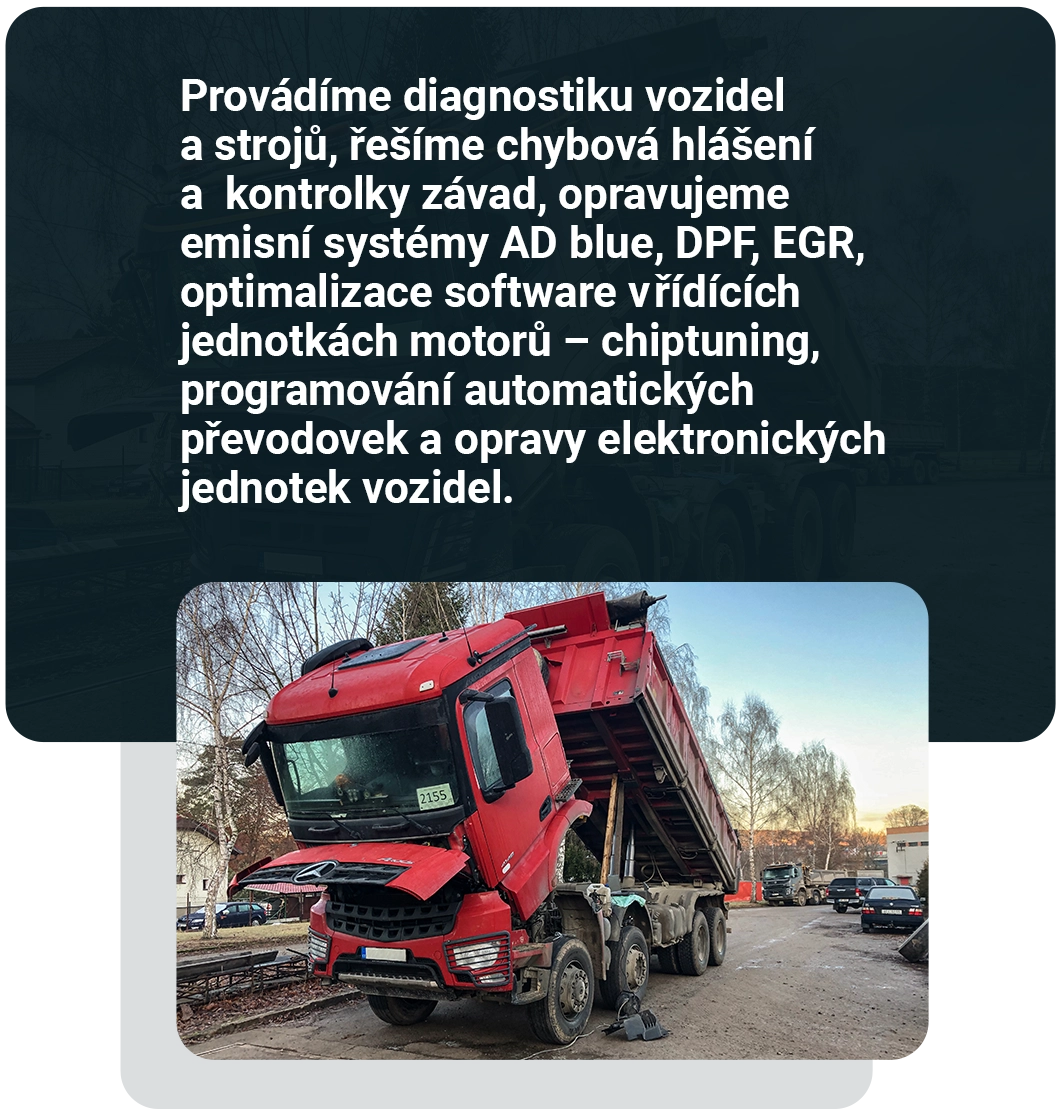
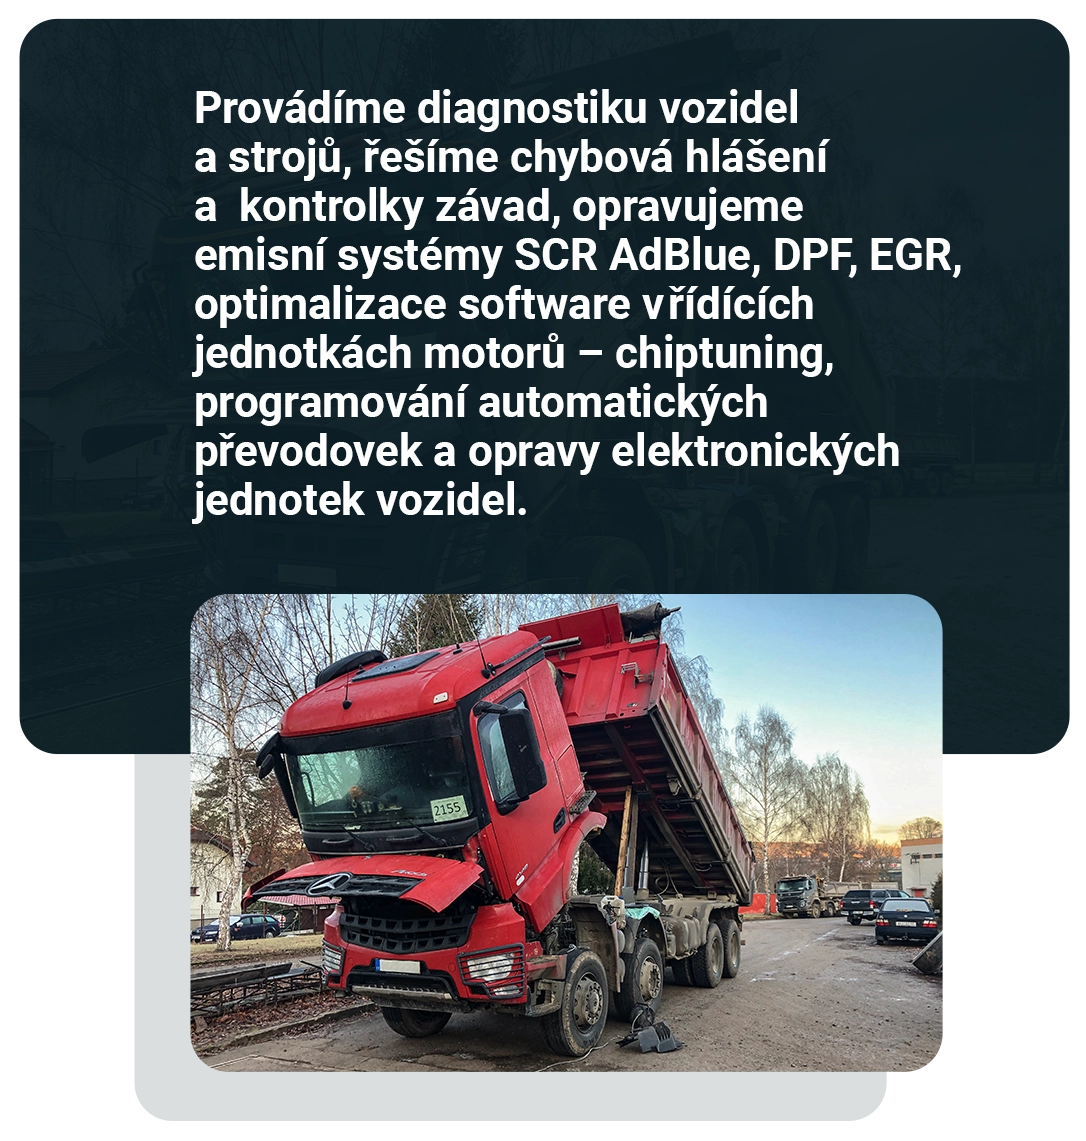
AdBlue

Changed region(s): [[0.0, 0.0, 0.9953, 1.0], [0.1555, 0.0609, 0.902, 0.4566]]

diff --git a/ttc-performance/pages/cenik.jsx b/ttc-performance/pages/cenik.jsx
@@ -297,7 +297,7 @@ const Cenik = () => {
                 Chiptuning s měřením výkonu<span>od 5.000,- Kč</span>
               </p>
               <p>
-                Oprava systému ADblue / DPF<span>od 5.000,- Kč</span>
+                Oprava systému SCR AdBlue / DPF<span>od 5.000,- Kč</span>
               </p>
               <p>
                 Programování AUT převodovek<span>od 5.000,- Kč</span>
@@ -327,13 +327,14 @@ const Cenik = () => {
                 Nákladní vozidla a autobusy
               </p>
               <p>
-                Oprava systému AD Blue / DPF truck/bus <span>25.000,- Kč</span>
+                Oprava systému SCR AdBlue / DPF truck/bus{" "}
+                <span>25.000,- Kč</span>
               </p>
               <p>
                 Odstranění funkce EGR ventilu <span>18.000,- Kč</span>
               </p>
               <p>
-                Snížení dávky vstřikování AD Blue E6 <span>22.000,- Kč</span>
+                Snížení dávky vstřikování SCR AdBlue E6 <span>22.000,- Kč</span>
               </p>
               <p>
                 Odstranění nouzového režimu <span>15.000,- Kč</span>
@@ -360,7 +361,7 @@ const Cenik = () => {
                 Chiptuning agro <span>25.000,- Kč</span>
               </p>
               <p>
-                Oprava systému AD Blue/DPF agro
+                Oprava systému SCR AdBlue/DPF agro
                 <span>od 25.000,- Kč (dle výrobce motoru/ECU)</span>
               </p>
             </div>
@@ -380,7 +381,7 @@ const Cenik = () => {
                 <span>od 32.000,- Kč (dle výrobce motoru/ECU)</span>
               </p>
               <p>
-                Oprava systému AD Blue/DPF stavební/lesní
+                Oprava systému SCR AdBlue/DPF stavební/lesní
                 <span>od 32.000,- Kč (dle výrobce motoru/ECU)</span>
               </p>
             </div>

diff --git a/ttc-performance/pages/index.jsx b/ttc-performance/pages/index.jsx
@@ -594,8 +594,8 @@ export default function Home() {
                 <li>
                   Našimi zákazníky jsou převážně majitelé dopravní techniky,
                   kteří chtějí zvýšit jízdní výkon, snížit spotřebu pohonných
-                  hmot a močoviny AD blue, optimalizovat své provozní náklady za
-                  opravy a servis.
+                  hmot a močoviny SCR AdBlue, optimalizovat své provozní náklady
+                  za opravy a servis.
                 </li>
               </ul>
             </div>
